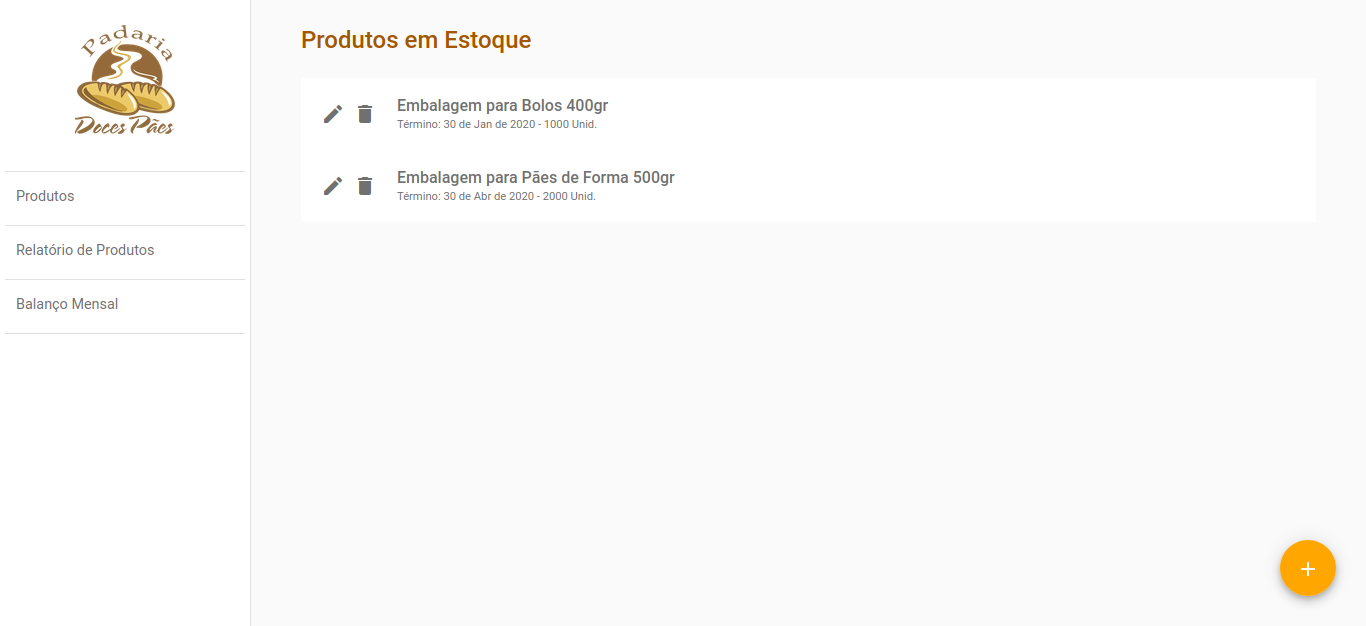
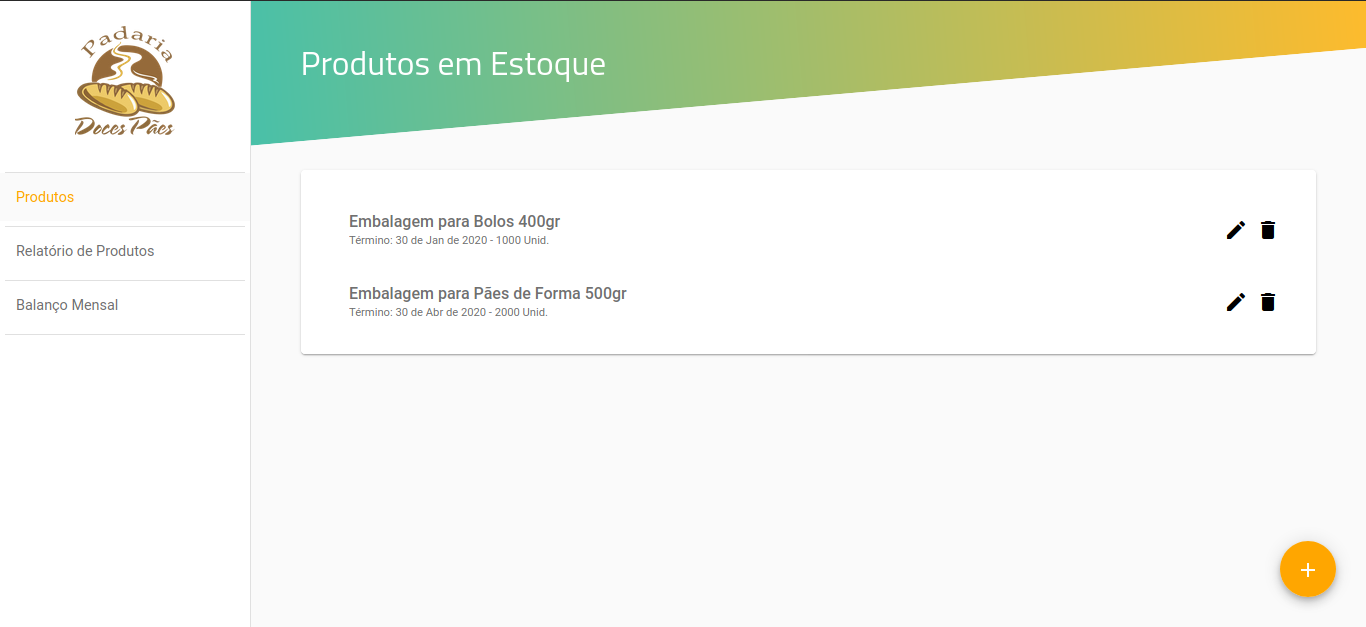
[ADD] Página editar produto

diff --git a/src/app/app.component copy.html b/src/app/app.component copy.html
@@ -66,16 +66,16 @@ a
     align-items: center;
   }
 
-  svg.material-icons {
+  svg.produto-icons {
     height: 24px;
     width: auto;
   }
 
-  svg.material-icons:not(:last-child) {
+  svg.produto-icons:not(:last-child) {
     margin-right: 8px;
   }
 
-  .card svg.material-icons path {
+  .card svg.produto-icons path {
     fill: #888;
   }
 
@@ -120,7 +120,7 @@ a
     box-shadow: 0 4px 17px rgba(black, 0.35);
   }
 
-  .card-container .card:not(.highlight-card):hover .material-icons path {
+  .card-container .card:not(.highlight-card):hover .produto-icons path {
     fill: rgb(105, 103, 103);
   }
 
@@ -249,7 +249,7 @@ a
     background-position: -.5em;
   }
 
-  .github-star-badge .material-icons {
+  .github-star-badge .produto-icons {
     height: 16px;
     width: 16px;
     margin-right: 4px;
@@ -355,26 +355,26 @@ a
 
   <div class="card-container">
     <a class="card" target="_blank" rel="noopener" href="https://angular.io/tutorial">
-      <svg class="material-icons" xmlns="http://www.w3.org/2000/svg" width="24" height="24" viewBox="0 0 24 24"><path d="M5 13.18v4L12 21l7-3.82v-4L12 17l-7-3.82zM12 3L1 9l11 6 9-4.91V17h2V9L12 3z"/></svg>
+      <svg class="produto-icons" xmlns="http://www.w3.org/2000/svg" width="24" height="24" viewBox="0 0 24 24"><path d="M5 13.18v4L12 21l7-3.82v-4L12 17l-7-3.82zM12 3L1 9l11 6 9-4.91V17h2V9L12 3z"/></svg>
 
       <span>Learn Angular</span>
 
-      <svg class="material-icons" xmlns="http://www.w3.org/2000/svg" width="24" height="24" viewBox="0 0 24 24"><path d="M10 6L8.59 7.41 13.17 12l-4.58 4.59L10 18l6-6z"/></svg>    </a>
+      <svg class="produto-icons" xmlns="http://www.w3.org/2000/svg" width="24" height="24" viewBox="0 0 24 24"><path d="M10 6L8.59 7.41 13.17 12l-4.58 4.59L10 18l6-6z"/></svg>    </a>
 
     <a class="card" target="_blank" rel="noopener" href="https://angular.io/cli">
-      <svg class="material-icons" xmlns="http://www.w3.org/2000/svg" width="24" height="24" viewBox="0 0 24 24"><path d="M9.4 16.6L4.8 12l4.6-4.6L8 6l-6 6 6 6 1.4-1.4zm5.2 0l4.6-4.6-4.6-4.6L16 6l6 6-6 6-1.4-1.4z"/></svg>
+      <svg class="produto-icons" xmlns="http://www.w3.org/2000/svg" width="24" height="24" viewBox="0 0 24 24"><path d="M9.4 16.6L4.8 12l4.6-4.6L8 6l-6 6 6 6 1.4-1.4zm5.2 0l4.6-4.6-4.6-4.6L16 6l6 6-6 6-1.4-1.4z"/></svg>
 
       <span>CLI Documentation</span>
 
-      <svg class="material-icons" xmlns="http://www.w3.org/2000/svg" width="24" height="24" viewBox="0 0 24 24"><path d="M10 6L8.59 7.41 13.17 12l-4.58 4.59L10 18l6-6z"/></svg>
+      <svg class="produto-icons" xmlns="http://www.w3.org/2000/svg" width="24" height="24" viewBox="0 0 24 24"><path d="M10 6L8.59 7.41 13.17 12l-4.58 4.59L10 18l6-6z"/></svg>
     </a>
 
     <a class="card" target="_blank" rel="noopener" href="https://blog.angular.io/">
-      <svg class="material-icons" xmlns="http://www.w3.org/2000/svg" width="24" height="24" viewBox="0 0 24 24"><path d="M13.5.67s.74 2.65.74 4.8c0 2.06-1.35 3.73-3.41 3.73-2.07 0-3.63-1.67-3.63-3.73l.03-.36C5.21 7.51 4 10.62 4 14c0 4.42 3.58 8 8 8s8-3.58 8-8C20 8.61 17.41 3.8 13.5.67zM11.71 19c-1.78 0-3.22-1.4-3.22-3.14 0-1.62 1.05-2.76 2.81-3.12 1.77-.36 3.6-1.21 4.62-2.58.39 1.29.59 2.65.59 4.04 0 2.65-2.15 4.8-4.8 4.8z"/></svg>
+      <svg class="produto-icons" xmlns="http://www.w3.org/2000/svg" width="24" height="24" viewBox="0 0 24 24"><path d="M13.5.67s.74 2.65.74 4.8c0 2.06-1.35 3.73-3.41 3.73-2.07 0-3.63-1.67-3.63-3.73l.03-.36C5.21 7.51 4 10.62 4 14c0 4.42 3.58 8 8 8s8-3.58 8-8C20 8.61 17.41 3.8 13.5.67zM11.71 19c-1.78 0-3.22-1.4-3.22-3.14 0-1.62 1.05-2.76 2.81-3.12 1.77-.36 3.6-1.21 4.62-2.58.39 1.29.59 2.65.59 4.04 0 2.65-2.15 4.8-4.8 4.8z"/></svg>
 
       <span>Angular Blog</span>
 
-      <svg class="material-icons" xmlns="http://www.w3.org/2000/svg" width="24" height="24" viewBox="0 0 24 24"><path d="M10 6L8.59 7.41 13.17 12l-4.58 4.59L10 18l6-6z"/></svg>
+      <svg class="produto-icons" xmlns="http://www.w3.org/2000/svg" width="24" height="24" viewBox="0 0 24 24"><path d="M10 6L8.59 7.41 13.17 12l-4.58 4.59L10 18l6-6z"/></svg>
     </a>
 
   </div>
@@ -387,31 +387,31 @@ a
 
   <div class="card-container">
     <div class="card card-small" (click)="selection.value = 'component'" tabindex="0">
-        <svg class="material-icons" xmlns="http://www.w3.org/2000/svg" width="24" height="24" viewBox="0 0 24 24"><path d="M19 13h-6v6h-2v-6H5v-2h6V5h2v6h6v2z"/></svg>
+        <svg class="produto-icons" xmlns="http://www.w3.org/2000/svg" width="24" height="24" viewBox="0 0 24 24"><path d="M19 13h-6v6h-2v-6H5v-2h6V5h2v6h6v2z"/></svg>
 
       <span>New Component</span>
     </div>
 
-    <div class="card card-small" (click)="selection.value = 'material'" tabindex="0">
-        <svg class="material-icons" xmlns="http://www.w3.org/2000/svg" width="24" height="24" viewBox="0 0 24 24"><path d="M19 13h-6v6h-2v-6H5v-2h6V5h2v6h6v2z"/></svg>
+    <div class="card card-small" (click)="selection.value = 'produto'" tabindex="0">
+        <svg class="produto-icons" xmlns="http://www.w3.org/2000/svg" width="24" height="24" viewBox="0 0 24 24"><path d="M19 13h-6v6h-2v-6H5v-2h6V5h2v6h6v2z"/></svg>
 
-      <span>Angular Material</span>
+      <span>Angular Produto</span>
     </div>
 
     <div class="card card-small" (click)="selection.value = 'dependency'" tabindex="0">
-      <svg class="material-icons" xmlns="http://www.w3.org/2000/svg" width="24" height="24" viewBox="0 0 24 24"><path d="M19 13h-6v6h-2v-6H5v-2h6V5h2v6h6v2z"/></svg>
+      <svg class="produto-icons" xmlns="http://www.w3.org/2000/svg" width="24" height="24" viewBox="0 0 24 24"><path d="M19 13h-6v6h-2v-6H5v-2h6V5h2v6h6v2z"/></svg>
 
       <span>Add Dependency</span>
     </div>
 
     <div class="card card-small" (click)="selection.value = 'test'" tabindex="0">
-      <svg class="material-icons" xmlns="http://www.w3.org/2000/svg" width="24" height="24" viewBox="0 0 24 24"><path d="M19 13h-6v6h-2v-6H5v-2h6V5h2v6h6v2z"/></svg>
+      <svg class="produto-icons" xmlns="http://www.w3.org/2000/svg" width="24" height="24" viewBox="0 0 24 24"><path d="M19 13h-6v6h-2v-6H5v-2h6V5h2v6h6v2z"/></svg>
 
       <span>Run and Watch Tests</span>
     </div>
 
     <div class="card card-small" (click)="selection.value = 'build'" tabindex="0">
-      <svg class="material-icons" xmlns="http://www.w3.org/2000/svg" width="24" height="24" viewBox="0 0 24 24"><path d="M19 13h-6v6h-2v-6H5v-2h6V5h2v6h6v2z"/></svg>
+      <svg class="produto-icons" xmlns="http://www.w3.org/2000/svg" width="24" height="24" viewBox="0 0 24 24"><path d="M19 13h-6v6h-2v-6H5v-2h6V5h2v6h6v2z"/></svg>
 
       <span>Build for Production</span>
     </div>
@@ -420,7 +420,7 @@ a
   <!-- Terminal -->
   <div class="terminal" [ngSwitch]="selection.value">
       <pre *ngSwitchDefault>ng generate component xyz</pre>
-      <pre *ngSwitchCase="'material'">ng add @angular/material</pre>
+      <pre *ngSwitchCase="'produto'">ng add @angular/produto</pre>
       <pre *ngSwitchCase="'dependency'">ng add _____</pre>
       <pre *ngSwitchCase="'test'">ng test</pre>
       <pre *ngSwitchCase="'build'">ng build --prod</pre>
@@ -510,12 +510,12 @@ a
       Love Angular?&nbsp;
       <a href="https://github.com/angular/angular" target="_blank" rel="noopener"> Give our repo a star.
         <div class="github-star-badge">
-            <svg class="material-icons" xmlns="http://www.w3.org/2000/svg" width="24" height="24" viewBox="0 0 24 24"><path d="M0 0h24v24H0z" fill="none"/><path d="M12 17.27L18.18 21l-1.64-7.03L22 9.24l-7.19-.61L12 2 9.19 8.63 2 9.24l5.46 4.73L5.82 21z"/></svg>
+            <svg class="produto-icons" xmlns="http://www.w3.org/2000/svg" width="24" height="24" viewBox="0 0 24 24"><path d="M0 0h24v24H0z" fill="none"/><path d="M12 17.27L18.18 21l-1.64-7.03L22 9.24l-7.19-.61L12 2 9.19 8.63 2 9.24l5.46 4.73L5.82 21z"/></svg>
           Star
         </div>
       </a>
       <a href="https://github.com/angular/angular" target="_blank" rel="noopener">
-        <svg class="material-icons" xmlns="http://www.w3.org/2000/svg" width="24" height="24" viewBox="0 0 24 24"><path d="M10 6L8.59 7.41 13.17 12l-4.58 4.59L10 18l6-6z" fill="#1976d2"/><path d="M0 0h24v24H0z" fill="none"/></svg>
+        <svg class="produto-icons" xmlns="http://www.w3.org/2000/svg" width="24" height="24" viewBox="0 0 24 24"><path d="M10 6L8.59 7.41 13.17 12l-4.58 4.59L10 18l6-6z" fill="#1976d2"/><path d="M0 0h24v24H0z" fill="none"/></svg>
       </a>
   </footer>
 

diff --git a/src/app/app.module.ts b/src/app/app.module.ts
@@ -10,13 +10,27 @@ import {MatRippleModule} from '@angular/material/core';
 import { PageProdutosComponent } from './page-produtos/page-produtos.component';
 import {MatIconModule} from '@angular/material/icon';
 import {MatButtonModule} from '@angular/material/button';
-import {MatDividerModule} from '@angular/material/divider'; 
+import {MatDividerModule} from '@angular/material/divider';
+import { PageEditProdutoComponent } from './page-edit-produto/page-edit-produto.component'; 
+import {MatInputModule} from '@angular/material/input'; 
+import {MatCardModule} from '@angular/material/card'; 
+import { FormsModule } from '@angular/forms';
+import { TitlePageComponent } from './title-page/title-page.component';
+import { Routes, RouterModule } from '@angular/router';
+
+const routes:Routes = [
+  {path: 'editar_produto', component: PageEditProdutoComponent},
+  {path: 'produtos', component: PageProdutosComponent},
+  {path: '', pathMatch:'full', redirectTo: 'editar_produto'}
+]
 
 @NgModule({
   declarations: [
     AppComponent,
     SidenavComponent,
     PageProdutosComponent,
+    PageEditProdutoComponent,
+    TitlePageComponent,
   ],
   imports: [
     BrowserModule,
@@ -26,7 +40,11 @@ import {MatDividerModule} from '@angular/material/divider';
     MatRippleModule,
     MatIconModule,
     MatButtonModule,
-    MatDividerModule
+    MatDividerModule,
+    MatInputModule,
+    MatCardModule,
+    FormsModule,
+    RouterModule.forRoot(routes)
   ],
   providers: [],
   bootstrap: [AppComponent]

diff --git a/src/app/page-produtos/page-produtos.component.html b/src/app/page-produtos/page-produtos.component.html
@@ -1,20 +1,21 @@
-<div class="container">
-    <h1>Produtos em Estoque</h1>
+<title-page text="Produtos em Estoque"></title-page>
 
-    <mat-list>
-        <mat-list-item *ngFor="let produto of produtos" class="list-item">
-            <mat-icon matListIcon>edit</mat-icon>
-            <mat-icon matListIcon>delete</mat-icon>
-            <h3 matLine class="descricao-produto"> {{produto.descricao}} </h3>
-            <p matLine>
-                <span class="info-produto">
-                    Término: {{produto.termino}} - {{produto.quantidade}} Unid.
-                </span>
-            </p>
-        </mat-list-item>
-    </mat-list>
+<mat-card>
 
-    <button mat-fab class="fab-btn" color="primary">
-        <mat-icon matListIcon>add</mat-icon>
-    </button>
-</div>
+<mat-list>
+    <mat-list-item *ngFor="let produto of produtos" class="list-item" routerLink="/editar_produto">
+        <a routerLink="/editar_produto"><mat-icon matListIcon>edit</mat-icon></a>
+        <a routerLink="/produtos"><mat-icon matListIcon>delete</mat-icon></a>
+        <h3 matLine class="descricao-produto"> {{produto.descricao}} </h3>
+        <p matLine>
+            <span class="info-produto">
+                Término: {{produto.termino}} - {{produto.quantidade}} Unid.
+            </span>
+        </p>
+    </mat-list-item>
+</mat-list>
+</mat-card>
+
+<button mat-fab class="fab-btn" color="primary">
+    <mat-icon matListIcon>add</mat-icon>
+</button>

diff --git a/src/app/page-edit-produto/page-edit-produto.component.spec.ts b/src/app/page-edit-produto/page-edit-produto.component.spec.ts
@@ -1,0 +1,25 @@
+import { async, ComponentFixture, TestBed } from '@angular/core/testing';
+
+import { PageEditProdutoComponent } from './page-edit-produto.component';
+
+describe('PageEditProdutoComponent', () => {
+  let component: PageEditProdutoComponent;
+  let fixture: ComponentFixture<PageEditProdutoComponent>;
+
+  beforeEach(async(() => {
+    TestBed.configureTestingModule({
+      declarations: [ PageEditProdutoComponent ]
+    })
+    .compileComponents();
+  }));
+
+  beforeEach(() => {
+    fixture = TestBed.createComponent(PageEditProdutoComponent);
+    component = fixture.componentInstance;
+    fixture.detectChanges();
+  });
+
+  it('should create', () => {
+    expect(component).toBeTruthy();
+  });
+});

diff --git a/src/app/page-edit-produto/page-edit-produto.component.html b/src/app/page-edit-produto/page-edit-produto.component.html
@@ -1,0 +1,19 @@
+<title-page text="Alterar Produto"></title-page>
+
+<mat-card class="card-form">
+    <form>
+        <mat-form-field class="input">
+            <input matInput placeholder="Descrição" [(ngModel)]="produto.descricao" name="descricao">
+        </mat-form-field>
+
+        <mat-form-field class="input">
+            <input matInput placeholder="Quantidade" [(ngModel)]="produto.quantidade" name="quantidade">
+        </mat-form-field>
+
+    </form>
+
+    <mat-card-actions class="card-actions">
+        <button mat-button >CANCELAR</button>
+        <button mat-button color="primary">SALVAR</button>
+    </mat-card-actions>
+</mat-card>

diff --git a/src/app/app.component.html b/src/app/app.component.html
@@ -1,1 +1,14 @@
-<sidenav></sidenav>
+<mat-sidenav-container class="sidenav-container">
+    <mat-sidenav mode="side" class="sidenav" [opened]="sidenavOpened">
+        <sidenav></sidenav>
+    </mat-sidenav>
+    <mat-sidenav-content>
+        <main class="container">
+        
+        <router-outlet></router-outlet>
+        <!-- <page-produtos></page-produtos> -->
+        <!-- <page-edit-produto></page-edit-produto> -->
+
+        </main>
+    </mat-sidenav-content>
+</mat-sidenav-container>

diff --git a/src/app/page-edit-produto/page-edit-produto.component.ts b/src/app/page-edit-produto/page-edit-produto.component.ts
@@ -1,0 +1,13 @@
+import { Component, OnInit } from '@angular/core';
+
+@Component({
+  selector: 'page-edit-produto',
+  templateUrl: './page-edit-produto.component.html',
+  styleUrls: ['./page-edit-produto.component.css']
+})
+export class PageEditProdutoComponent {
+  produto = {
+    descricao: "Embalagem para Bolos 500gr",
+    quantidade: 100
+  }
+}

diff --git a/src/app/app.component.css b/src/app/app.component.css
@@ -3,3 +3,16 @@
 * {
     font-family: 'Roboto', sans-serif,
 }
+
+.sidenav-container {
+    position: absolute;
+    top: 0;
+    bottom: 0;
+    left: 0;
+    right: 0;
+    background: #FAFAFA;
+}
+
+.container{
+    margin: 25px 50px;
+}

diff --git a/src/app/page-produtos/page-produtos.component.css b/src/app/page-produtos/page-produtos.component.css
@@ -2,11 +2,12 @@
     margin: 25px 50px;
 }
 
-h1{
-    font-size: 1.5em;
-    font-weight: 500;
-    color: rgb(163, 87, 0);
-}
+a {
+    color: black;
+    
+ }
+
+
 
 .descricao-produto{
     font-weight: 500 !important;

diff --git a/src/app/app.component.ts b/src/app/app.component.ts
@@ -6,5 +6,6 @@ import { Component } from '@angular/core';
   styleUrls: ['./app.component.css']
 })
 export class AppComponent {
+  sidenavOpened = true
   title = 'controle-de-estoque';
 }

diff --git a/src/app/page-edit-produto/page-edit-produto.component.css b/src/app/page-edit-produto/page-edit-produto.component.css
@@ -1,0 +1,14 @@
+.form {
+    min-height: 70vh;
+    width: 100%;
+  }
+  
+  .input {
+    width: 100%;
+  }
+
+.card-actions{
+  margin-top: 20px;
+  text-align: right;
+}
+  

diff --git a/README.md b/README.md
@@ -1,7 +1,7 @@
 # Controle De Estoque
 
-Aplicação para controle de estoque em desenvolvimento para aprendizado do Angular 8 com back-end em Node.js.s
+Aplicação para controle de estoque em desenvolvimento para aprendizado do Angular 8 com back-end em Node.js.
 
 <p align="center">
-    <img src="readme/screenshot-1.png" width="60%">
+    <img src="readme/screenshot-1.png" width="80%">
 </p>
